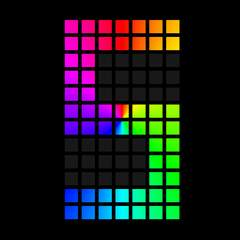
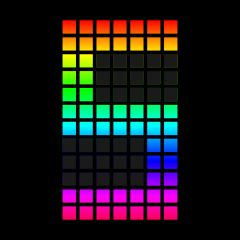
Changed rainbow clock

Changed region(s): [[0.2333, 0.0583, 0.7583, 0.9333]]

diff --git a/images/ClockWidget/custom/THANKS.md b/images/ClockWidget/custom/THANKS.md
@@ -4,7 +4,7 @@ We currently ship the following custom clocks:
 
 ## Custom Clock 0
 
-- Style: Rainbow Dot Clock
+- Style: Rainbow Square Clock
 - Author: @Andrea in Discord
 
 ## Custom Clock 1
